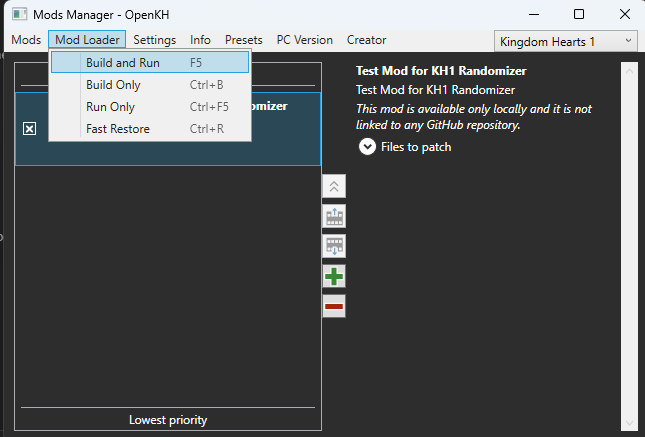
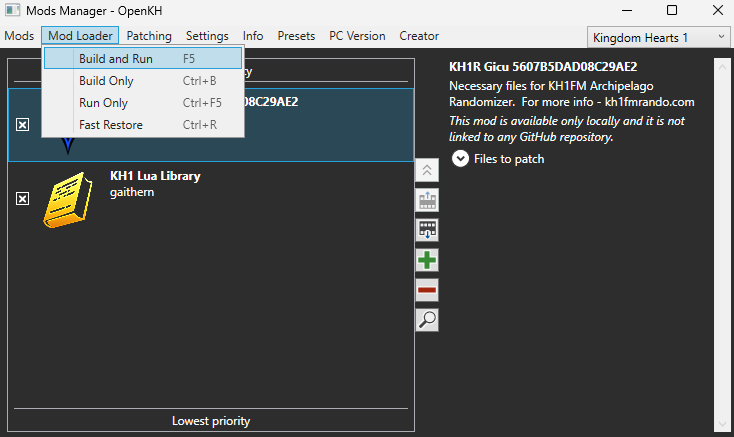
Added new instructions for mod set up and multiworld connection

diff --git a/dev/multiworld_guide.html b/dev/multiworld_guide.html
@@ -84,11 +84,15 @@
                 <p><img src="./images/create_new_room.png" border="1"></p>
                 <li>You should be redirected to a new room page.  This will contain a link to download the patch file for the KH1 players, all the information they need to connect, and all the files/info for other players</li>
                 <p><img src="./images/new_room.png" border="1"></p>
-                
-                <h2>Connecting to the multiworld server</h2>
+
+                <h2>Installing your slot's mod</h2>
                 <li>KH1 players should begin by downloading their patch file.  This is either provided by their host, or they may click the "Download Patch File..." link associated with their slot in their game.</li>
                 <li>Using that downloaded patch file, generate your mod for OpenKH using the same instructions as the <a href="generating_the_mod.html">"Generating the mod"</a> step in the <a href="setup_guide.html">Setup Guide</a></li>
                 <li>Install your mod using the same instructions as the <a href="install_the_mod.html">"Installing the mod"</a> step in the <a href="setup_guide.html">Setup Guide</a></li>
+
+                <h2>Connecting to the multiworld server (Option 1 File Client)</h2>
+                <li>In OpenKH, ensure you have "gaithern/KH1-FILE-CLIENT" installed</li>
+                <p><img src="./images/kh1_file_client.png" border="1"></p>
                 <li>Open your Archipelago Launcher, which can be found in your start menu or by navigating back to your Archipelago installation folder</li>
                 <p><img src="./images/archipelago_launcher.png" border="1"></p>
                 <li>In your Archipelago Launcher, search KH1.  Click "Open".</li>
@@ -99,7 +103,17 @@
                 <p><img src="./images/type_slot_name.png" border="1"></p>
                 <li>You should be greeted with the following messages.  You should now be able to open your modded KH1 game via OpenKH and play!</li>
                 <p><img src="./images/connected.png" border="1"></p>
-                
+
+                <h2>Connecting to the multiworld server (Option 2 DLL Client)</h2>
+                <li>In OpenKH, ensure you have "gaithern/KH1-DLL-CLIENT" installed</li>
+                <p><img src="./images/kh1_dll_client.png" border="1"></p>
+                <li>Once in game, press F4 to open the connection dialog window.</li>
+                <p><img src="./images/connection_dialog_window.png" border="1"></p>
+                <li>Type in the server/port associated with your hosted game and click "Connect"</li>
+                <p><img src="./images/connection_info_input.png" border="1"></p>
+                <li>If connection was successful, you should see a confirmation message in game.</li>
+                <p><img src="./images/confirmation_message.png" border="1"></p>
+
                 <h3>Having trouble getting set up?  Feel free to join the <a href="discord_links.html">KH1 AP Discord</a> and reach out for help.</h3>
             </p>
         </div>

diff --git a/dev/installing_the_mod.html b/dev/installing_the_mod.html
@@ -76,17 +76,23 @@
             <p><img src="./images/kh1_dropdown.png"></p>
             <li>Click the green plus icon to install a new mod.</li>
             <p><img src="./images/install_a_new_mod.png"></p>
+            <li>First, enter "gaithern/KH1-LUA-LIBRARY" in the field labelled "Install a new mod from GitHub" and click "Install".</li>
+            <p><img src="./images/install_kh1_lua_library.png"></p>
+            <li>You should see the following mod appear:</li>
+            <p><img src="./images/kh1_lua_library_installed.png"></p>
+            <li>Click the green plus icon again to install another mod.</li>
+            <p><img src="./images/install_another_mod.png"></p>
             <li>Choose "Select and install Mod Archive or Lua Script".</li>
             <p><img src="./images/select_or_install_a_new_mod_or_lua_script.png"></p>
             <li>Navigate to your mod zip created in the "Generating your Mod Zip" step and select it.</li>
             <p><img src="./images/mod_zip.png"></p>
             <li>Find your new mod in your mod list.</li>
             <p><img src="./images/mod_unchecked.png"></p>
-            <li>Click the box near the mod name to enable the mod.</li>
+            <li>Click the boxes near the mod names to enable each mod.</li>
             <p><img src="./images/mod_checked.png"></p>
             <li>When ready to play, go to "Mod Loader" at the top pane and choose "Build and Run".</li>
             <p><img src="./images/build_and_run.png"></p>
-            <li>KH1 should open with the newly installed mod.</li>
+            <li>KH1 should open with the newly installed mods.</li>
         </p>
     </div> </body>
 </html>